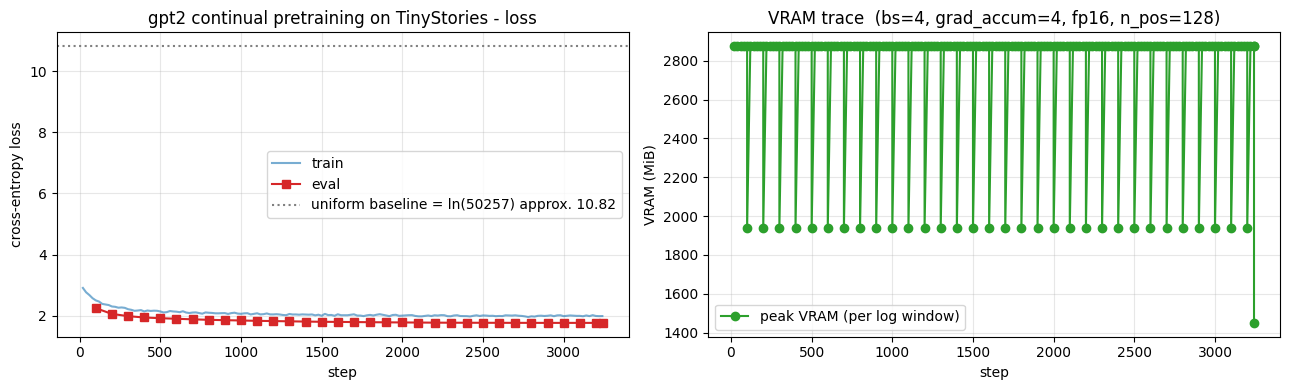
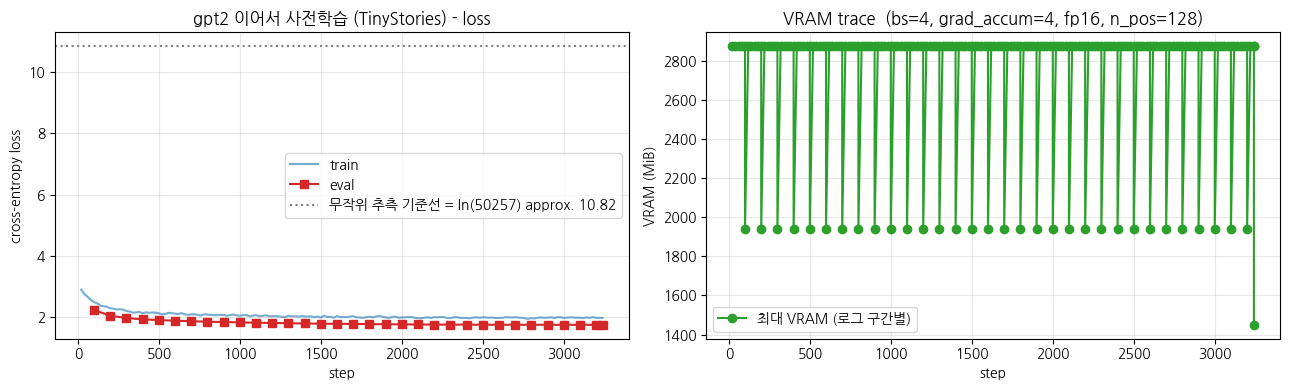
Ch 25 WikiDocs 변환 — executed 한글 plot 재생성
Claude-Session: https://claude.ai/code/session_01WacYaM89hZLnSLh4o6sjrA

diff --git a/pages/25-gpt2_continual_pretrain-practice.md b/pages/25-gpt2_continual_pretrain-practice.md
@@ -9,14 +9,14 @@
 **▶ 실행 결과**
 
 ```text
-   ━━━━━━━━━━━━━━━━━━━━━━━━━━━━━━━━━━━━━━━━ 11.2/11.2 MB 114.3 MB/s eta 0:00:00
-   ━━━━━━━━━━━━━━━━━━━━━━━━━━━━━━━━━━━━━━━━ 555.1/555.1 kB 48.4 MB/s eta 0:00:00
-   ━━━━━━━━━━━━━━━━━━━━━━━━━━━━━━━━━━━━━━━━ 389.2/389.2 kB 40.2 MB/s eta 0:00:00
-   ━━━━━━━━━━━━━━━━━━━━━━━━━━━━━━━━━━━━━━━━ 0.0/48.9 MB ? eta -:--:--
-   ━━━━━━━━━━━━━━━━━━━━━━━━━━━━━━━━━━━━━━━╸ 48.9/48.9 MB 128.9 MB/s eta 0:00:01
-   ━━━━━━━━━━━━━━━━━━━━━━━━━━━━━━━━━━━━━━━╸ 48.9/48.9 MB 128.9 MB/s eta 0:00:01
-   ━━━━━━━━━━━━━━━━━━━━━━━━━━━━━━━━━━━━━━━╸ 48.9/48.9 MB 128.9 MB/s eta 0:00:01
-   ━━━━━━━━━━━━━━━━━━━━━━━━━━━━━━━━━━━━━━━━ 48.9/48.9 MB 17.7 MB/s eta 0:00:00
+   ━━━━━━━━━━━━━━━━━━━━━━━━━━━━━━━━━━━━━━━━ 11.2/11.2 MB 100.4 MB/s eta 0:00:00
+   ━━━━━━━━━━━━━━━━━━━━━━━━━━━━━━━━━━━━━━━━ 555.1/555.1 kB 44.1 MB/s eta 0:00:00
+   ━━━━━━━━━━━━━━━━━━━━━━━━━━━━━━━━━━━━━━━━ 389.2/389.2 kB 36.7 MB/s eta 0:00:00
+   ━━━━━━━━━━━━━━━━╺━━━━━━━━━━━━━━━━━━━━━━━ 20.1/48.9 MB 183.0 MB/s eta 0:00:01
+   ━━━━━━━━━━━━━━━━━━━━━━━━━━━━━━━━━━━━━━━╸ 48.9/48.9 MB 159.0 MB/s eta 0:00:01
+   ━━━━━━━━━━━━━━━━━━━━━━━━━━━━━━━━━━━━━━━╸ 48.9/48.9 MB 159.0 MB/s eta 0:00:01
+   ━━━━━━━━━━━━━━━━━━━━━━━━━━━━━━━━━━━━━━━╸ 48.9/48.9 MB 159.0 MB/s eta 0:00:01
+   ━━━━━━━━━━━━━━━━━━━━━━━━━━━━━━━━━━━━━━━━ 48.9/48.9 MB 15.7 MB/s eta 0:00:00
 ```
 
 ```python
@@ -58,6 +58,15 @@ random.seed(SEED)
 # fp16 은 CUDA 에서만 (MPS 는 미지원, CPU 는 의미 없음)
 USE_FP16 = (device.type == "cuda")
 print(f"use fp16   : {USE_FP16}")
+
+# matplotlib 한글 폰트 (Colab — NanumGothic). plot 의 한국어가 □ 로 깨지지 않게.
+import matplotlib.pyplot as plt, matplotlib.font_manager as fm, subprocess, os
+_fp = "/usr/share/fonts/truetype/nanum/NanumGothic.ttf"
+if not os.path.exists(_fp):
+    subprocess.run("apt-get -qq -y install fonts-nanum", shell=True)
+fm.fontManager.addfont(_fp)
+plt.rcParams["font.family"] = "NanumGothic"
+plt.rcParams["axes.unicode_minus"] = False
 ```
 
 **▶ 실행 결과**
@@ -68,8 +77,6 @@ VRAM total : 14.56 GiB
 torch      : 2.11.0+cu128
 use fp16   : True
 ```
-
-계속 사전학습에 쓸 데이터를 불러옵니다. Ch 24 에서 처음부터 학습할 때 쓴 것과 똑같은 TinyStories 30,000 편을 그대로 사용해, 달라지는 것이 모델(기성 gpt2)뿐임을 분명히 합니다. 샘플 동화 하나를 출력해 어떤 텍스트로 더 학습하는지 눈으로 확인합니다.
 
 ```python
 from datasets import load_dataset
@@ -105,12 +112,6 @@ Lily went to her mom and said, "Mom, I found this needle. Can you share it with 
 To
 ```
 
-**결과 해석**
-
-train 30,000편, val 500편이 정상 로드됐고 샘플도 Ch 24 와 같은 단순한 동화체입니다. 데이터가 고정됐으니 이후 변화는 모두 모델 차이에서 옵니다.
-
-이번 장의 핵심인 기성 gpt2 본체와 토크나이저를 그대로 내려받습니다. 처음부터 만든 Ch 24 의 작은 모델과 달리, 이미 WebText 로 사전학습이 끝난 124M 모델에서 출발한다는 점이 중요합니다. 파라미터 수와 vocab 크기가 Ch 24 대비 얼마나 커졌는지, 그리고 task 는 여전히 CausalLM(lm_head) 그대로임을 출력으로 확인해 둡니다.
-
 ```python
 from transformers import AutoTokenizer, AutoModelForCausalLM
 
@@ -138,7 +139,7 @@ print(f"  - head : {type(model.lm_head).__name__}(in={model.lm_head.in_features}
 **▶ 실행 결과**
 
 ```text
-load done: 9.4s
+load done: 15.8s
 
 === model ===
 #params           : 124.44 M  (Ch 24 was approx. 3M; Ch 25 is approx. 41x larger)
@@ -154,12 +155,6 @@ model: GPT2LMHeadModel
   - body : GPT2Model  (Decoder, causal attention)
   - head : Linear(in=768, out=50257)
 ```
-
-**결과 해석**
-
-124.44M 파라미터에 vocab 50,257 로 Ch 24 의 작은 모델보다 약 41배 큰 본체이며, head 는 여전히 vocab 전체를 예측하는 CausalLM 구조 그대로입니다. task 는 바뀌지 않고 모델만 커진 셈입니다.
-
-텍스트를 토큰으로 바꾼 뒤 각 동화 끝에 EOS 를 붙이고, 전체를 길이 128 의 고정 블록으로 잘라 이어 붙입니다. 라벨을 따로 만들지 않는 것은 CausalLM 의 self-supervised 특성 그대로이며, 데이터 가공 방식도 Ch 24 와 동일하게 맞춰 변경점을 모델 하나로 좁힙니다.
 
 ```python
 BLOCK_SIZE = 128   # Ch 24 와 동일
@@ -212,12 +207,6 @@ approx. train tokens: 6.64 M
 first chunk decode (first 200 chars):
 One day, a little girl named Lily found a needle in her room. She knew it was difficult to play with it because it was sharp. Lily wanted to …(뒤 60자 생략)
 ```
-
-**결과 해석**
-
-128 토큰 블록 51,863개, 약 6.64M 토큰으로 묶였습니다. 1024 초과 경고는 토큰화 단계의 알림일 뿐 이후 group_texts 가 128 블록으로 다시 자르므로 학습에는 영향이 없습니다.
-
-계속 사전학습을 시작하기 전에, 기성 gpt2 가 같은 프롬프트에 어떤 글을 쓰는지 먼저 기록해 둡니다. 학습 후 결과와 나란히 비교해 TinyStories 도메인으로 얼마나 옮겨가는지 보기 위한 기준선입니다. 지금은 WebText 풍의 뉴스나 설명체 문장이 나올 것으로 예상됩니다.
 
 ```python
 PROMPTS = [
@@ -275,12 +264,6 @@ In the long run, we find that people who have an allergy to animals are less lik
 
 But these people are less likely to have
 ```
-
-**결과 해석**
-
-학습 전 gpt2 는 정부, 책, 알레르기 같은 WebText 풍 화제로 흘러가 동화체와 거리가 멉니다. 이것이 계속 사전학습 전의 기준선입니다.
-
-이미 학습이 끝난 본체를 새 데이터로 이어서 학습(continual pretraining)하는 부분입니다. SFT 가 아니라 Ch 24 와 같은 CausalLM task 를 그대로 두고 데이터만 TinyStories 로 바꿔 1 epoch 만 더 돌립니다. Ch 24 와의 유일한 큰 차이는 learning rate 를 3e-4 에서 2e-5 로 크게 낮춰 기존 능력을 덜 흔들도록 한 점이니, 학습 시간과 train_loss, peak VRAM 을 함께 확인하세요.
 
 ```python
 from transformers import (DataCollatorForLanguageModeling, Trainer,
@@ -360,18 +343,12 @@ if torch.cuda.is_available():
 [transformers] `loss_type=None` was set in the config but it is unrecognized. Using the default loss: `ForCausalLMLoss`.
 <IPython.core.display.HTML object>
 === continual pretraining summary ===
-elapsed       : 19.22 min
+elapsed       : 19.06 min
 global_step   : 3242
 train_loss    : 2.0699
 vocab ln (random baseline): 10.8249  (we start MUCH lower than this)
 final peak    : 1450 MiB
 ```
-
-**결과 해석**
-
-19.22분으로 T4 30분 안에 끝났고 train_loss 2.07 은 무작위 기준선 10.82 보다 훨씬 낮습니다. 사전학습된 본체에서 출발하니 처음부터 한참 좋은 지점에서 시작하며, peak VRAM 1,450MiB 로 16GB 에 여유가 큽니다.
-
-학습 동안 기록한 train/eval loss 곡선과 step 별 peak VRAM 을 두 패널로 그립니다. loss 가 무작위 기준선(ln vocab)보다 훨씬 아래에서 시작해 더 내려가는지, VRAM 이 T4 16GB 안에 충분히 들어오는지 한눈에 확인하기 위한 그림입니다.
 
 ```python
 # loss curve + VRAM trace
@@ -388,20 +365,20 @@ if eval_pts:
     ax1.plot([s for s, _ in eval_pts], [l for _, l in eval_pts], "s-",
              color="tab:red", label="eval")
 ax1.axhline(math.log(tokenizer.vocab_size), ls=":", color="gray",
-            label=f"uniform baseline = ln({tokenizer.vocab_size}) approx. {math.log(tokenizer.vocab_size):.2f}")
+            label=f"무작위 추측 기준선 = ln({tokenizer.vocab_size}) approx. {math.log(tokenizer.vocab_size):.2f}")
 ax1.set_xlabel("step"); ax1.set_ylabel("cross-entropy loss")
-ax1.set_title("gpt2 continual pretraining on TinyStories - loss")
+ax1.set_title("gpt2 이어서 사전학습 (TinyStories) - loss")
 ax1.grid(True, alpha=0.3); ax1.legend()
 
 # VRAM (CUDA 만)
 if vram_cb.steps:
     ax2.plot(vram_cb.steps, vram_cb.peak_MiB, "o-", color="tab:green",
-             label="peak VRAM (per log window)")
+             label="최대 VRAM (로그 구간별)")
     ax2.set_title(f"VRAM trace  (bs=4, grad_accum=4, fp16, n_pos={BLOCK_SIZE})")
 else:
-    ax2.text(0.5, 0.5, "VRAM trace available on CUDA only",
+    ax2.text(0.5, 0.5, "VRAM 추적은 CUDA 에서만 가능",
              ha="center", va="center", transform=ax2.transAxes)
-    ax2.set_title("VRAM trace - CUDA only")
+    ax2.set_title("VRAM 추적 - CUDA 전용")
 ax2.set_xlabel("step"); ax2.set_ylabel("VRAM (MiB)")
 ax2.grid(True, alpha=0.3); ax2.legend()
 
@@ -411,12 +388,6 @@ plt.tight_layout(); plt.show()
 **▶ 실행 결과**
 
 ![output](../assets/25-gpt2_continual_pretrain-out1.png)
-
-**결과 해석**
-
-loss 곡선은 무작위 기준선(약 10.8) 한참 아래에서 시작해 꾸준히 내려가며, 사전학습 가중치를 이어받은 효과가 분명합니다. VRAM 도 step 내내 평탄하게 유지돼 T4 메모리에 문제가 없습니다.
-
-계속 사전학습이 끝난 같은 모델로 동일한 프롬프트를 다시 생성해 봅니다. 앞서 기록한 BEFORE 결과와 비교하려고 시드도 동일하게 맞췄습니다. 이제 출력이 동화체로 옮겨가 있는지가 관전 포인트입니다.
 
 ```python
 torch.manual_seed(SEED)
@@ -451,12 +422,6 @@ The old people smiled and said, "I'm glad you are so kind. I'm sorry you can't s
 
 The big dog felt
 ```
-
-**결과 해석**
-
-학습 후에는 세 프롬프트 모두 little girl, mommy, big dog 같은 동화체 어휘와 대화로 옮겨갔습니다. task 는 그대로 둔 채 데이터만 바꿨는데 생성 스타일이 TinyStories 도메인으로 적응한 모습입니다.
-
-같은 모델의 학습 전후 출력을 프롬프트별로 나란히 놓아, 계속 사전학습이 가져온 변화만 깔끔하게 떼어 봅니다.
 
 ```python
 # Ch 25 within-model BEFORE vs AFTER comparison
@@ -506,12 +471,6 @@ The old people smiled and said, "I'm glad you are so kind. I'm sorry you can't s
 
 The big dog felt
 ```
-
-**결과 해석**
-
-세 프롬프트 모두 BEFORE 의 뉴스/설명체에서 AFTER 의 동화체 서사로 또렷하게 바뀌었습니다. 모델 하나만 데이터로 이어 학습한 결과이므로 변화의 원인이 명확합니다.
-
-Ch 24 의 처음부터 학습한 3M 모델, Ch 25 의 학습 전 gpt2, 학습 후 gpt2 를 한자리에 모아 비교합니다. 사전학습된 본체에서 출발하는 것이 같은 데이터로 처음부터 만드는 것과 어떻게 다른지 가늠하기 위한 셀입니다.
 
 ```python
 # Ch 24 의 TRAINED model generation 결과 인용
@@ -578,7 +537,3 @@ Ch 25 BEFORE    : is a dog that loves to eat, but is also a dog that's afraid to
 In the long run, we find that people who have an
 ...
 ```
-
-**결과 해석**
-
-Ch 24 의 3M scratch 모델과 Ch 25 AFTER 모델 모두 자연스러운 동화체를 내놓지만, gpt2 는 사전학습 본체 덕에 한 번의 epoch 만으로 같은 수준의 동화체에 도달했습니다. 처음부터 만드는 것과 기성 모델을 이어 학습하는 것의 차이를 잘 보여줍니다.

diff --git a/TOC.md b/TOC.md
@@ -95,8 +95,8 @@
   * [24-2. 변형: sampling hyperparam 비교](pages/24-gpt_tinystories-variation.md)
   * [24-3. 정리와 FAQ](pages/24-gpt_tinystories-wrapup.md)
 * [25. GPT-2 계속 사전학습 (Continual Pretraining)](pages/25-gpt2_continual_pretrain.md)
-  * [25-1. 실습: gpt2 계속 사전학습](pages/25-gpt2_continual_pretrain-practice.md)
-  * [25-2. 변형 — 더 많은 epoch / 다른 도메인 / catastrophic forgetting 시연](pages/25-gpt2_continual_pretrain-variation.md)
+  * [25-1. 실습](pages/25-gpt2_continual_pretrain-practice.md)
+  * [25-2. 변형: 더 많은 epoch / 다른 도메인 / catastrophic forgetting 시연](pages/25-gpt2_continual_pretrain-variation.md)
   * [25-3. 정리와 FAQ](pages/25-gpt2_continual_pretrain-wrapup.md)
 * [26. 한국어 작은 GPT 사전학습 (TinyStories-Korean Causal LM)](pages/26-ko_tiny_gpt.md)
   * [26-1. 실습: 한국어 작은 GPT 사전학습](pages/26-ko_tiny_gpt-practice.md)

diff --git a/pages/25-gpt2_continual_pretrain.md b/pages/25-gpt2_continual_pretrain.md
@@ -273,6 +273,4 @@ Ch 24 의 *작은 from-scratch 모델* (3M, TinyStories 1500 step) 의 generatio
 
 ## 이 장의 구성
 
-- [25-1. 실습](25-gpt2_continual_pretrain-practice.md)
-- [25-2. 변형 — 더 많은 epoch / 다른 도메인 / catastrophic forgetting 시연](25-gpt2_continual_pretrain-variation.md)
-- [25-3. 정리와 FAQ](25-gpt2_continual_pretrain-wrapup.md)
+[[SubPages]]
